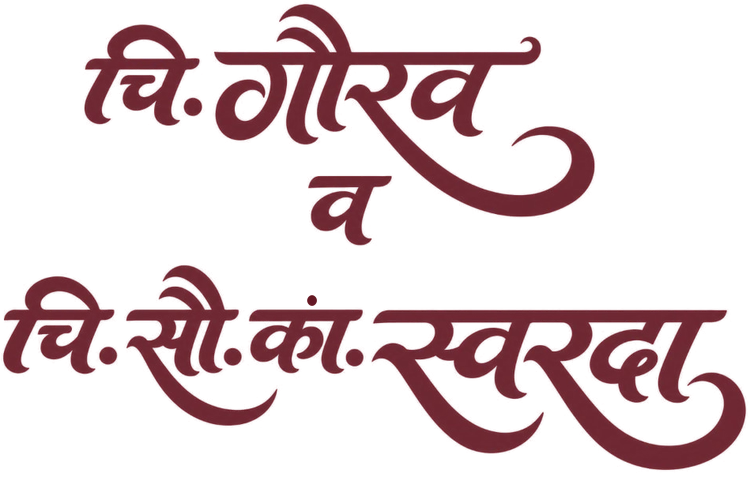
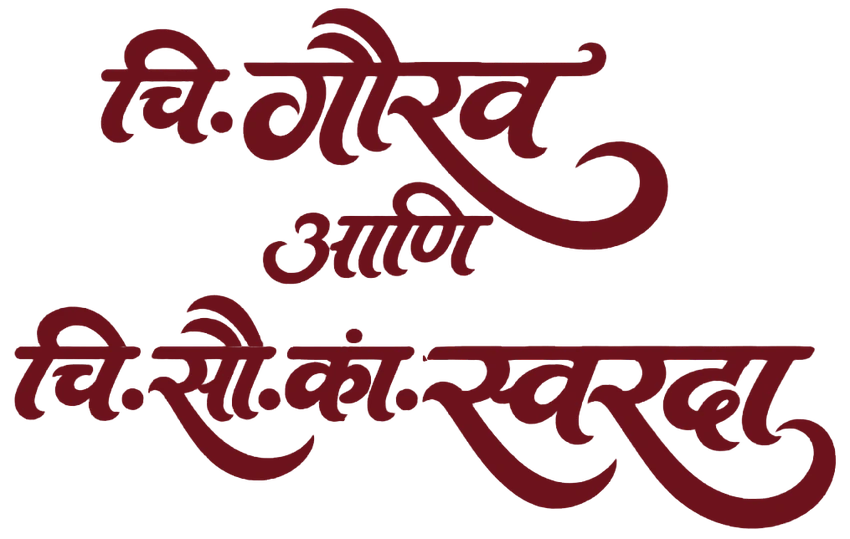
Update couple calligraphy to 'चि. गौरव आणि चि. सौ. कां. स्वरदा' with high-res WebP assets

Changed region(s): [[0.0, 0.5283, 1.0, 0.9979], [0.092, 0.0, 0.7973, 0.5283]]

diff --git a/index.html b/index.html
@@ -4,7 +4,7 @@
 <head>
   <meta charset="utf-8">
   <meta name="viewport" content="width=device-width,initial-scale=1,viewport-fit=cover">
-  <title>चि. गौरव व चि. सौ. कां. स्वरदा · शुभविवाह निमंत्रण · ०५.१२.२०२६</title>
+  <title>चि. गौरव आणि चि. सौ. कां. स्वरदा · शुभविवाह निमंत्रण · ५ डिसेंबर २०२६</title>
   <meta name="description"
     content="चि. गौरव आणि चि. सौ. कां. स्वरदा यांचा मंगलमय विवाह सोहळा. शनिवार, दि. ५ डिसेंबर २०२६, डी-राजवाडा रिसॉर्ट अँड बँक्वेट हॉल, बोईसर.">
   <meta name="theme-color" content="#FDF3E7">
@@ -15,15 +15,15 @@
   <link rel="preconnect" href="https://fonts.googleapis.com">
   <link rel="preconnect" href="https://fonts.gstatic.com" crossorigin>
   <link rel="preconnect" href="https://ik.imagekit.io">
-  <link rel="preload" as="image" href="assets/couple-calligraphy.webp?v=6" type="image/webp" fetchpriority="high">
-  <link rel="preload" as="image" href="assets/couple-calligraphy-sec3.webp?v=3" type="image/webp">
+  <link rel="preload" as="image" href="assets/couple-calligraphy.webp?v=11" type="image/webp" fetchpriority="high">
+  <link rel="preload" as="image" href="assets/couple-calligraphy-sec3.webp?v=11" type="image/webp">
   <link rel="preload" as="image" href="https://ik.imagekit.io/greenspire/invitation/main-bg.avif" fetchpriority="high">
   <link rel="preload" as="image" href="https://ik.imagekit.io/greenspire/invitation/ganpati-logo.avif">
   <link rel="preload" as="image" href="assets/couple.webp?v=3" type="image/webp">
   <link
     href="https://fonts.googleapis.com/css2?family=Cinzel:wght@400;600;700;800&family=Cormorant+Garamond:ital,wght@0,400;0,600;0,700;1,400&family=Great+Vibes&family=Italianno&family=Noto+Serif+Devanagari:wght@400;600;700;800;900&family=Tiro+Devanagari+Marathi:ital,wght@0,400;0,700;1,400&family=Yatra+One&display=block"
     rel="stylesheet">
-  <link rel="stylesheet" href="css/style.css?v=175">
+  <link rel="stylesheet" href="css/style.css?v=176">
 
   <style>
     .stage-cover:not(.is-revealed) .cover-content,
@@ -52,11 +52,11 @@
 
             <div class="cover-names-wrap" role="heading" aria-level="1">
               <picture class="cover-calligraphy-picture">
-                <source srcset="assets/couple-calligraphy.webp?v=6" type="image/webp">
-                <img src="assets/couple-calligraphy.png?v=6" alt="चि. गौरव व चि. सौ. कां. स्वरदा"
-                  class="cover-calligraphy-img" width="750" height="447" fetchpriority="high" decoding="async">
+                <source srcset="assets/couple-calligraphy.webp?v=11" type="image/webp">
+                <img src="assets/couple-calligraphy.png?v=11" alt="चि. गौरव आणि चि. सौ. कां. स्वरदा"
+                  class="cover-calligraphy-img" width="850" height="506" fetchpriority="high" decoding="async">
               </picture>
-              <span class="sr-only">चि. गौरव व चि. सौ. कां. स्वरदा</span>
+              <span class="sr-only">चि. गौरव आणि चि. सौ. कां. स्वरदा</span>
             </div>
 
             <div class="cover-tagline-text devanagari">
@@ -156,11 +156,11 @@
               </p>
               <div class="hero-names hero-calligraphy-wrap" role="heading" aria-level="2">
                 <picture class="hero-calligraphy-picture">
-                  <source srcset="assets/couple-calligraphy-sec3.webp?v=3" type="image/webp">
-                  <img src="assets/couple-calligraphy-sec3.png?v=3" alt="चि. गौरव व चि. सौ. कां. स्वरदा"
-                    class="hero-calligraphy-img" width="750" height="477" loading="lazy" decoding="async">
+                  <source srcset="assets/couple-calligraphy-sec3.webp?v=11" type="image/webp">
+                  <img src="assets/couple-calligraphy-sec3.png?v=11" alt="चि. गौरव आणि चि. सौ. कां. स्वरदा"
+                    class="hero-calligraphy-img" width="850" height="539" loading="lazy" decoding="async">
                 </picture>
-                <span class="sr-only">चि. गौरव व चि. सौ. कां. स्वरदा</span>
+                <span class="sr-only">चि. गौरव आणि चि. सौ. कां. स्वरदा</span>
               </div>
               <p class="hero-line devanagari">यांच्या शुभविवाहाच्या या मंगल सोहळ्यास आपण सहकुटुंब उपस्थित राहून
                 नवदांपत्यास आपले शुभाशिर्वाद द्यावेत आणि त्यांच्या भावी आयुष्यासाठी शुभेच्छा व्यक्त कराव्यात, ही सप्रेम
@@ -274,7 +274,7 @@
             <div class="invitation-closing devanagari">
               <p class="closing-warm devanagari">आपल्या स्नेहपूर्ण उपस्थितीने आमचा आनंद द्विगुणित होईल. या मंगलप्रसंगी
                 आपण सहकुटुंब उपस्थित राहून नवदांपत्यास शुभाशिर्वाद द्यावेत, ही नम्र विनंती.</p>
-              <p class="closing-signature devanagari">गौरव व स्वरदा</p>
+              <p class="closing-signature devanagari">गौरव आणि स्वरदा</p>
               <div class="closing-flourish" aria-hidden="true">
                 <img src="assets/heart-flourish.svg?v=1" alt="शुभविवाह प्रतीक" class="closing-flourish-img" width="320"
                   height="80" loading="lazy" decoding="async">
@@ -316,7 +316,7 @@
   </button>
 
   <script src="js/config.js"></script>
-  <script src="js/app.js?v=135"></script>
+  <script src="js/app.js?v=136"></script>
 </body>
 
 </html>

diff --git a/css/style.css b/css/style.css
@@ -57,7 +57,7 @@ button { cursor: pointer; border: none; background: none; font-family: var(--ser
 
 .cover-names-wrap { display: flex; flex-direction: column; align-items: center; justify-content: center; margin-top: clamp(0.55rem, 1.8vh, 1.2rem); margin-bottom: clamp(0.45rem, 2.0cqw, 1.0rem); padding: 0.2rem 0; position: relative; width: 100%; }
 .cover-calligraphy-picture { display: flex; justify-content: center; align-items: center; width: 100%; }
-.cover-calligraphy-img { width: 100%; max-width: clamp(185px, 58cqw, 255px); max-height: min(21vh, 160px); height: auto; aspect-ratio: 750 / 447; object-fit: contain; display: block; margin: 0 auto; transform: translateX(clamp(4px, 1.5vw, 8px)); filter: drop-shadow(0 2px 5px rgba(99, 22, 34, 0.16)); user-select: none; -webkit-user-select: none; pointer-events: none; }
+.cover-calligraphy-img { width: 100%; max-width: clamp(185px, 58cqw, 255px); max-height: min(21vh, 160px); height: auto; aspect-ratio: 850 / 506; object-fit: contain; display: block; margin: 0 auto; transform: none; filter: drop-shadow(0 2px 5px rgba(99, 22, 34, 0.16)); user-select: none; -webkit-user-select: none; pointer-events: none; }
 .sr-only { position: absolute; width: 1px; height: 1px; padding: 0; margin: -1px; overflow: hidden; clip: rect(0, 0, 0, 0); white-space: nowrap; border: 0; }
 
 .script-title-name { font-family: 'Italianno', cursive; font-size: clamp(3.4rem, 14.5cqw, 5.4rem); color: #16221E; font-weight: 400; line-height: 0.96; letter-spacing: 0.02em; margin: 0; text-align: center; text-shadow: 0 1px 2px rgba(255, 255, 255, 0.95); display: block; }
@@ -152,7 +152,7 @@ button { cursor: pointer; border: none; background: none; font-family: var(--ser
 .hero-names .names-bride { display: block; text-align: center; }
 .hero-calligraphy-wrap { width: 100%; display: flex; flex-direction: column; align-items: center; justify-content: center; margin: 0.35rem 0 0.55rem; position: relative; }
 .hero-calligraphy-picture { display: flex; justify-content: center; align-items: center; width: 100%; }
-.hero-calligraphy-img { width: 100%; max-width: clamp(190px, 60cqw, 255px); height: auto; aspect-ratio: 750 / 477; display: block; margin: 0 auto; filter: drop-shadow(0 2px 5px rgba(99, 22, 34, 0.16)); user-select: none; -webkit-user-select: none; pointer-events: none; }
+.hero-calligraphy-img { width: 100%; max-width: clamp(190px, 60cqw, 255px); height: auto; aspect-ratio: 850 / 539; display: block; margin: 0 auto; filter: drop-shadow(0 2px 5px rgba(99, 22, 34, 0.16)); user-select: none; -webkit-user-select: none; pointer-events: none; }
 
 .hero-line { max-width: 32ch; text-wrap: balance; font-style: italic; font-size: clamp(1.02rem, 4.0cqw, 1.28rem); color: #2F1E16; font-weight: 500; line-height: 1.45; margin: 0.35rem 0; text-shadow: 0 1px 1px rgba(255, 255, 255, 0.85); }
 .hero-line.devanagari { font-family: 'Noto Serif Devanagari', var(--deva); font-style: normal; font-size: clamp(1.20rem, 4.6cqw, 1.45rem); color: #381A1E; font-weight: 600; line-height: 1.7; max-width: 36ch; margin: 1rem 0; }
